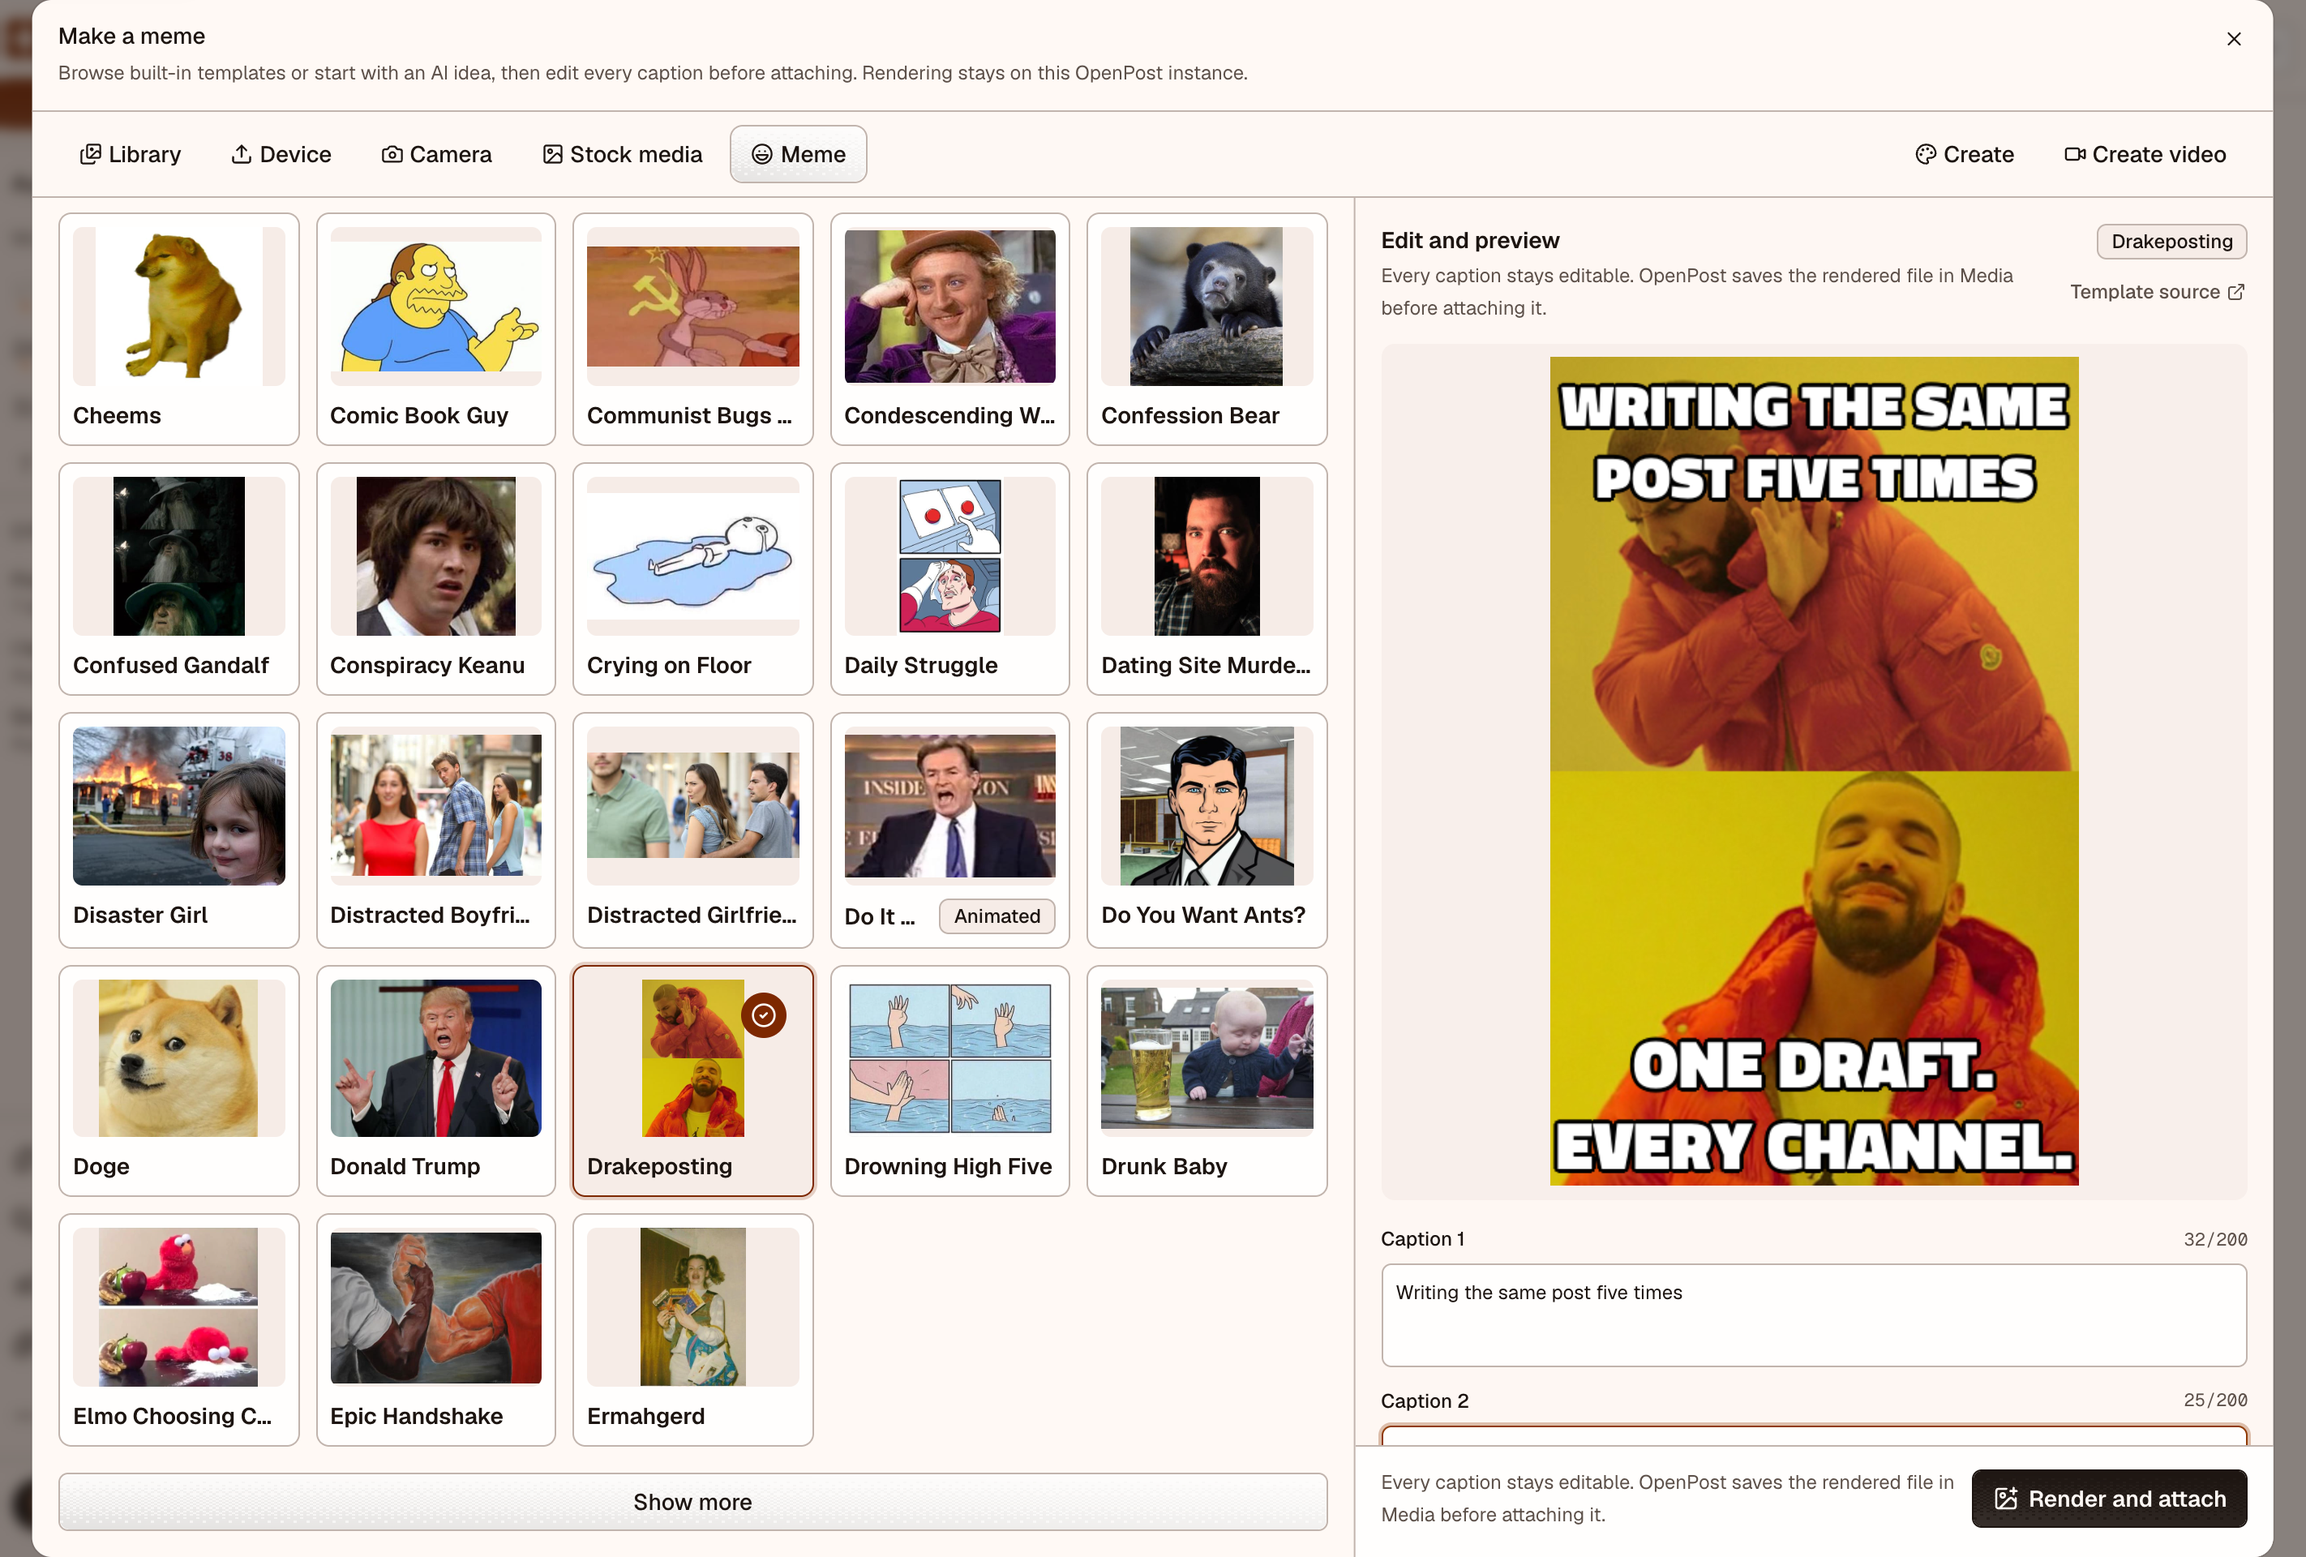
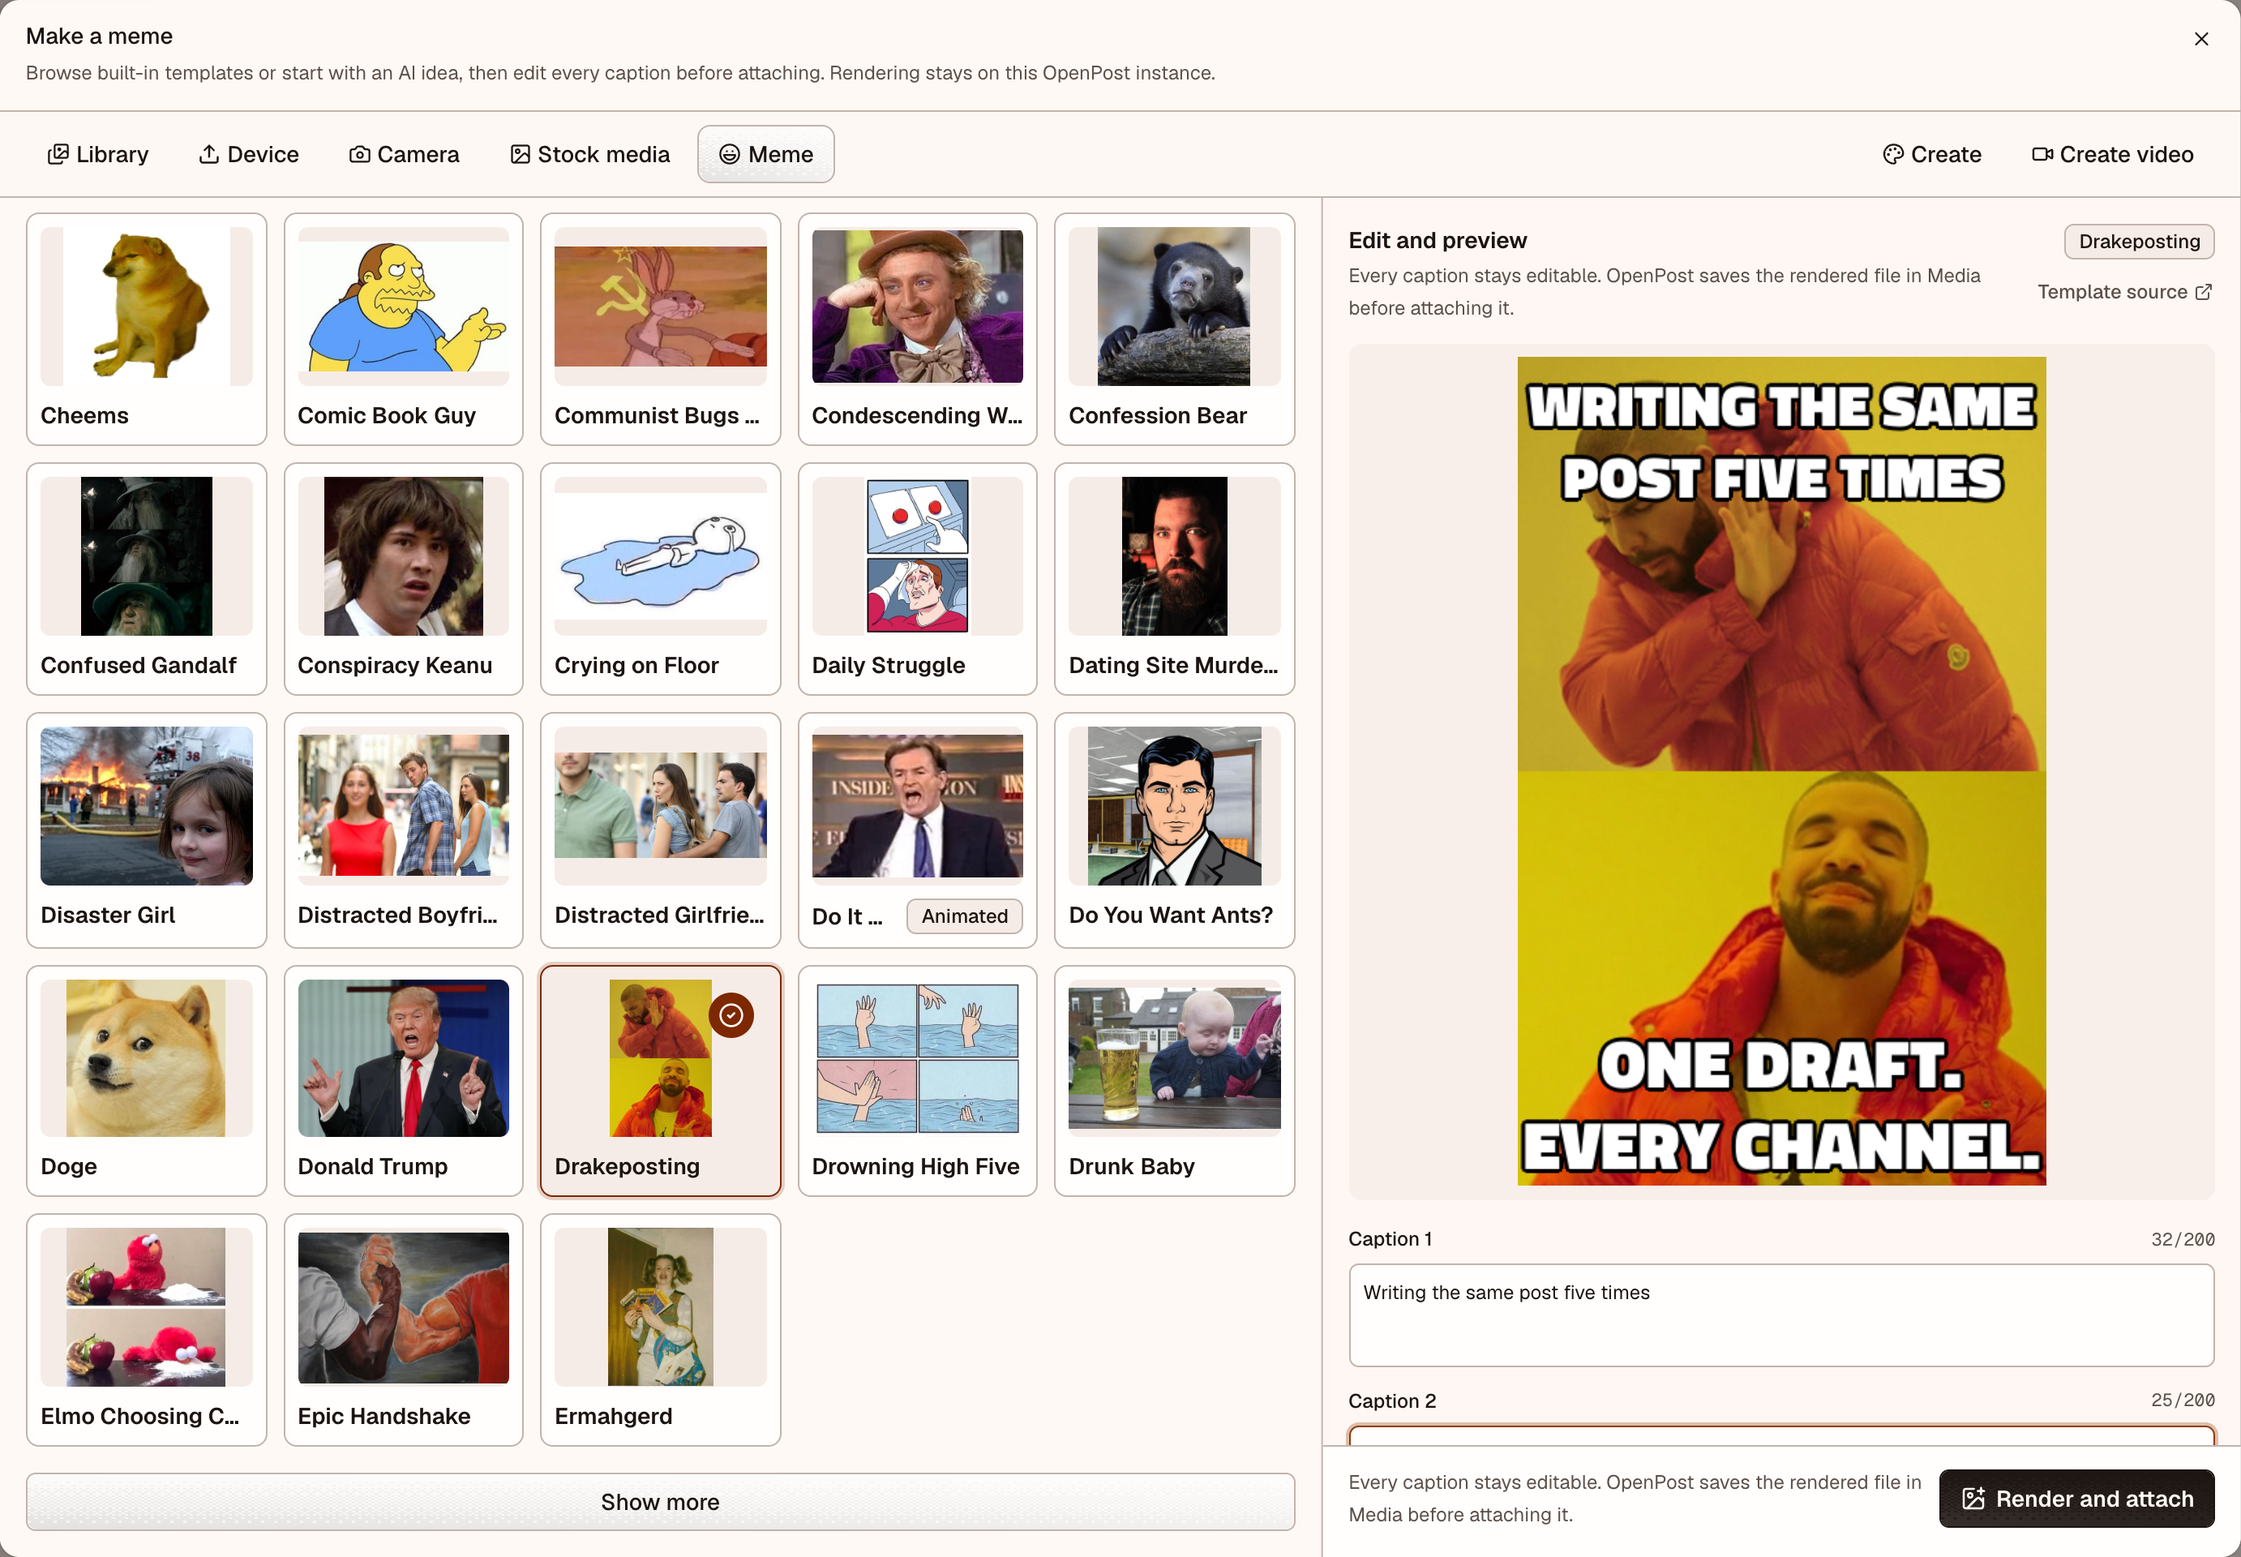
fix(marketing): crop blurred edges from meme screenshot

diff --git a/tests/marketing/landing-page.spec.ts b/tests/marketing/landing-page.spec.ts
@@ -75,6 +75,38 @@ test("landing details and resources load without repeating full screenshots", as
   }
 });
 
+test("meme screenshot does not include the blurred dialog backdrop at its sides", async ({
+  page,
+}) => {
+  for (const colorScheme of ["light", "dark"] as const) {
+    await page.emulateMedia({ colorScheme });
+    await page.goto("/");
+    const image = page.getByRole("img", {
+      name: "OpenPost meme creator with editable captions and a rendered Drakeposting preview",
+    });
+    await image.scrollIntoViewIfNeeded();
+    await expect
+      .poll(() => image.evaluate((img: HTMLImageElement) => img.complete && img.naturalWidth > 0))
+      .toBe(true);
+    const edgeDifference = await image.evaluate((img: HTMLImageElement) => {
+      const canvas = document.createElement("canvas");
+      canvas.width = img.naturalWidth;
+      canvas.height = img.naturalHeight;
+      const context = canvas.getContext("2d");
+      if (!context) throw new Error("Canvas 2D context is unavailable");
+      context.drawImage(img, 0, 0);
+      const pixel = (x: number) => context.getImageData(x, 80, 1, 1).data;
+      const distance = (left: Uint8ClampedArray, right: Uint8ClampedArray) =>
+        Math.max(...[0, 1, 2].map((channel) => Math.abs(left[channel] - right[channel])));
+      return Math.max(
+        distance(pixel(2), pixel(100)),
+        distance(pixel(img.naturalWidth - 3), pixel(img.naturalWidth - 101)),
+      );
+    });
+    expect(edgeDifference).toBeLessThan(20);
+  }
+});
+
 test("features navigation stays on the landing page", async ({ page }, testInfo) => {
   await page.goto("/");
   if (testInfo.project.name.includes("mobile")) {

diff --git a/tests/app/product-screenshots.spec.ts b/tests/app/product-screenshots.spec.ts
@@ -1440,7 +1440,7 @@ test.describe("product screenshot capture", () => {
           ),
         )
         .toBe(true);
-      await captureDetail(mediaPicker, `meme-creator-detail-${captureScheme}.png`);
+      await captureDetail(mediaPicker, `meme-creator-detail-${captureScheme}.png`, 0);
       await page.keyboard.press("Escape");
 
       await page.goto(`/publications?tab=drafts&workspace=${workspace.id}`);
@@ -1678,14 +1678,13 @@ test.describe("product screenshot capture", () => {
   }
 });
 
-async function captureDetail(element: Locator, filename: string) {
+async function captureDetail(element: Locator, filename: string, contextPadding = 20) {
   await element.scrollIntoViewIfNeeded();
   const page = element.page();
   const bounds = await element.boundingBox();
   const viewport = page.viewportSize();
   if (!bounds || !viewport) throw new Error(`Cannot frame product detail: ${filename}`);
   // Retain neighboring app surface so crops do not end at a control's edge.
-  const contextPadding = 20;
   const x = Math.max(0, bounds.x - contextPadding);
   const y = Math.max(0, bounds.y - contextPadding);
   await page.screenshot({

diff --git a/apps/marketing/src/routes/_components/ProductFeatures.svelte b/apps/marketing/src/routes/_components/ProductFeatures.svelte
@@ -149,8 +149,8 @@
 					lightSrc="/assets/screenshots/meme-creator-detail-light.webp"
 					darkSrc="/assets/screenshots/meme-creator-detail-dark.webp"
 					alt="OpenPost meme creator with editable captions and a rendered Drakeposting preview"
-					width={2400}
-					height={1600}
+					width={2764}
+					height={1920}
 					loading="lazy"
 				/>
 			</div>

diff --git a/changes/landing-meme-screenshot.md b/changes/landing-meme-screenshot.md
@@ -1,0 +1,3 @@
+### Fixed
+
+- The landing page meme screenshot no longer shows blurred strips beside the editor.
